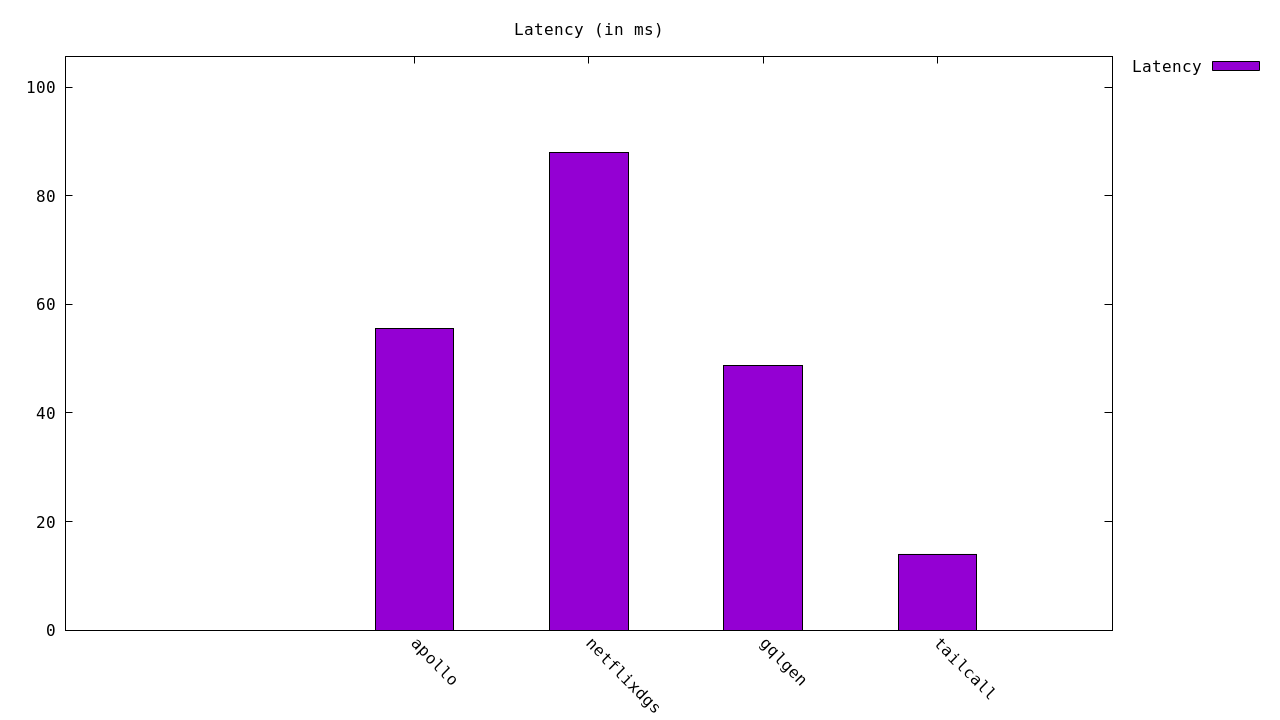
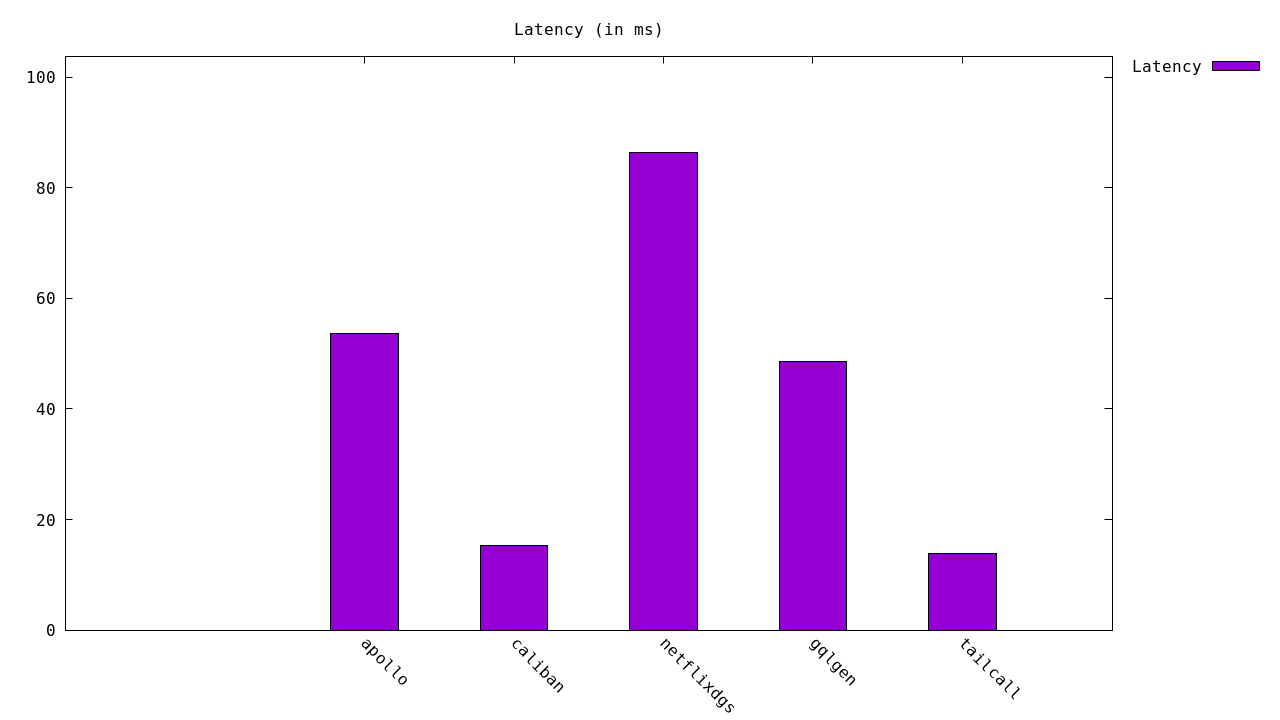
Update performance results in README.md

diff --git a/README.md b/README.md
@@ -45,10 +45,11 @@ Get started with the benchmarks:
 
 | Server | Requests/sec | Latency (ms) |
 |--------:|--------------:|--------------:|
-| [Tailcall] | `7,128.72` | `14.02` |
-| [Gqlgen] | `2,132.83` | `48.66` |
-| [Apollo GraphQL] | `1,796.82` | `55.58` |
-| [Netflix DGS] | `1,469.71` | `88.02` |
+| [Tailcall] | `7,184.54` | `13.88` |
+| [] | `6,565.43` | `15.27` |
+| [Gqlgen] | `2,137.41` | `48.53` |
+| [Apollo GraphQL] | `1,859.68` | `53.67` |
+| [Netflix DGS] | `1,466.55` | `86.46` |
 
 <!-- PERFORMANCE_RESULTS_END -->
 
